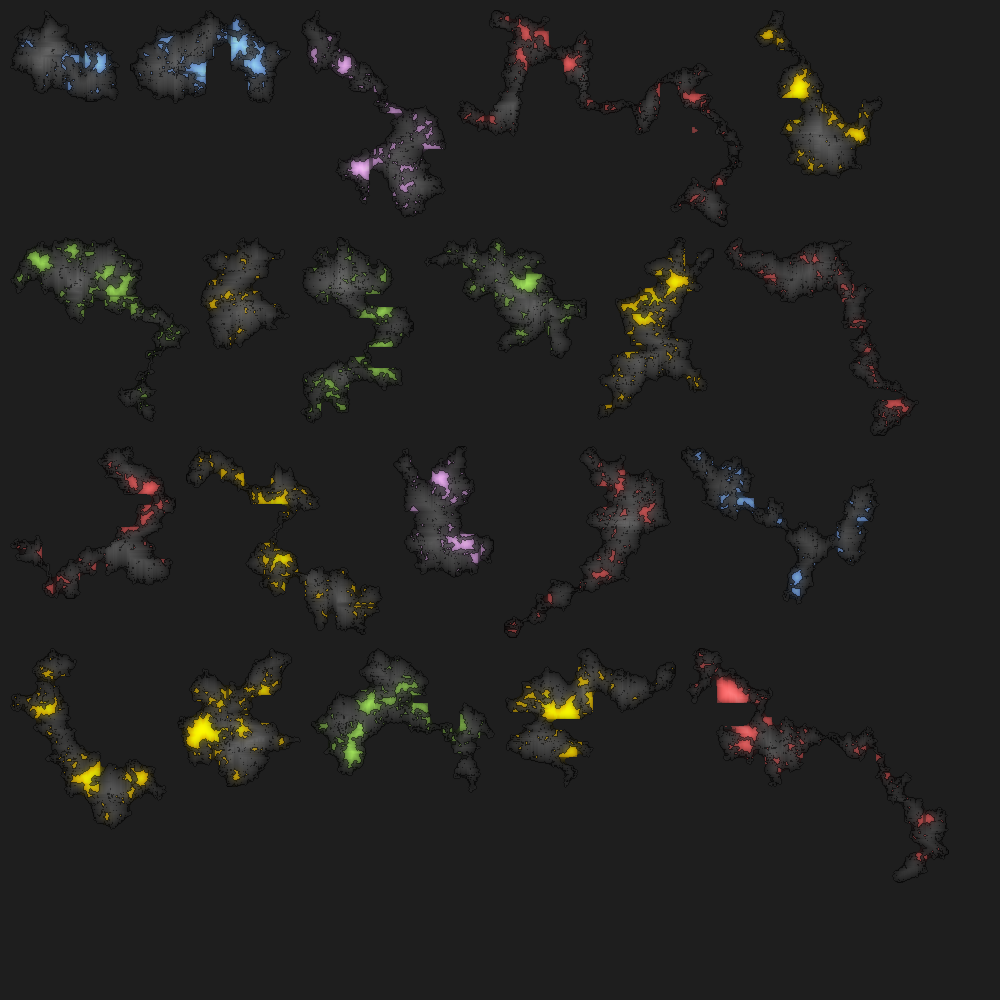
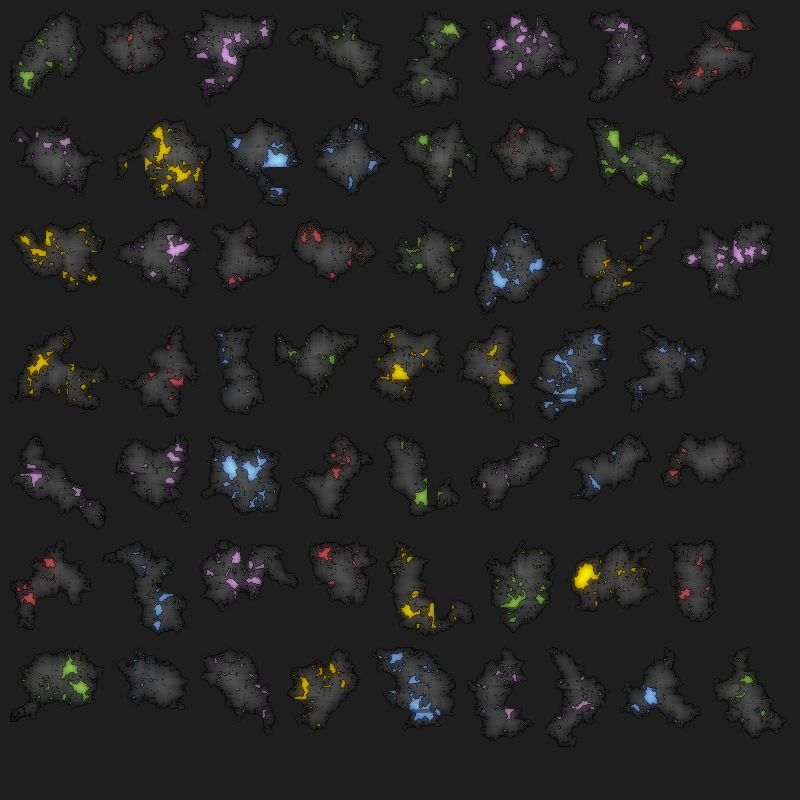
Lots of refinements.

diff --git a/src/ajb/utils/ImageUtils.java b/src/ajb/utils/ImageUtils.java
@@ -19,14 +19,14 @@ import ajb.random.RandomColor;
 
 public class ImageUtils {
 
-	public static BufferedImage outputToImage(Pixel[][] grid, Color borderColor, Color primaryColor, Color secondaryColor) {
+	public static BufferedImage outputToImage(Pixel[][] grid, Color primaryColor, Color secondaryColor) {
 		
 		if (secondaryColor == null) {
 			secondaryColor = Color.decode(ColorUtils.getRandomColour());
 		}
 		
-		BufferedImage baseImg = createImage(grid, borderColor, primaryColor, secondaryColor);
-		BufferedImage layer1Img = createImage(grid, borderColor, primaryColor, secondaryColor);
+		BufferedImage baseImg = createImage(grid, primaryColor, secondaryColor);
+		BufferedImage layer1Img = createImage(grid, primaryColor, secondaryColor);
 		
 		GaussianFilter filter = new GaussianFilter();
 		filter.setRadius(12f);
@@ -40,7 +40,7 @@ public class ImageUtils {
 		return result;
 	}
 	
-	public static BufferedImage createImage(Pixel[][] grid, Color borderColor, Color primaryColor, Color secondaryColor) {
+	public static BufferedImage createImage(Pixel[][] grid, Color primaryColor, Color secondaryColor) {
 
 		GraphicsConfiguration gc = GraphicsEnvironment.getLocalGraphicsEnvironment().getDefaultScreenDevice().getDefaultConfiguration();
 
@@ -56,18 +56,13 @@ public class ImageUtils {
 			for (int c = 0; c < grid[0].length; c++) {
 
 				if (grid[r][c].value == Pixel.BORDER) {
-
-					if (borderColor == null) {
-						gr.setColor(Color.BLACK);
-					} else {
-						gr.setColor(borderColor);
-					}
-
+					
+					gr.setColor(Color.BLACK);
 					gr.fillRect(c * scaleFactor, r * scaleFactor, scaleFactor, scaleFactor);
 
 				} else if (grid[r][c].value == Pixel.FILLED) {
 
-					gr.setColor(ColorUtils.lighter(primaryColor, grid[r][c].depth * 0.05 > 6 ? 6 : grid[r][c].depth * 0.05));
+					gr.setColor(ColorUtils.lighter(primaryColor, grid[r][c].depth * 0.05 > 3 ? 3 : grid[r][c].depth * 0.05));
 					gr.fillRect(c * scaleFactor, r * scaleFactor, scaleFactor, scaleFactor);
 
 				} else if (grid[r][c].value == Pixel.SECONDARY) {
@@ -83,7 +78,7 @@ public class ImageUtils {
 		return img;
 	}
 
-	public static BufferedImage outputAllToImage(List<Pixel[][]> grids, int width, int height, Color borderColor, Color primaryColor, Color secondaryColor) {
+	public static BufferedImage outputAllToImage(List<Pixel[][]> grids, int width, int height, Color primaryColor, Color secondaryColor) {
 
 		GraphicsConfiguration gc = GraphicsEnvironment.getLocalGraphicsEnvironment().getDefaultScreenDevice().getDefaultConfiguration();
 
@@ -103,7 +98,7 @@ public class ImageUtils {
 
 		for (Pixel[][] grid : grids) {
 
-			BufferedImage vesselImg = outputToImage(grid, borderColor, primaryColor, secondaryColor);
+			BufferedImage vesselImg = outputToImage(grid, primaryColor, secondaryColor);
 
 			if (x + (vesselImg.getWidth() + 10) > width) {
 				x = 10;

diff --git a/src/ajb/factory/StationGeneratorFactory.java b/src/ajb/factory/StationGeneratorFactory.java
@@ -8,13 +8,12 @@ import ajb.utils.PixelGridUtils;
 
 public class StationGeneratorFactory {
 
-	private final int ROWS = 600;
-	private final int COLS = 600;
+	private final int ROWS = 300;
+	private final int COLS = 300;
 
 	public Pixel[][] create() {
 
 		Pixel[][] grid = createBaseGrid();
-		addExtras(grid);
 
 		grid = PixelGridUtils.floor(grid);
 		grid = PixelGridUtils.mirrorCopyGridHorizontally(grid);
@@ -49,6 +48,10 @@ public class StationGeneratorFactory {
 			}
 		}
 
+		if (noOfSecondaryPixels == 0) {
+			return false;
+		}
+		
 		if (noOfSecondaryPixels > (noOfFilledPixels / 4)) {
 			result = false;
 		}	
@@ -63,8 +66,8 @@ public class StationGeneratorFactory {
 
 		Point point = new Point(ROWS -1, COLS - 1);
 
-		int steps = RandomInt.anyRandomIntRange(20, 30);
-		int subSteps = RandomInt.anyRandomIntRange(50, 80);
+		int steps = RandomInt.anyRandomIntRange(5, 20);
+		int subSteps = RandomInt.anyRandomIntRange(5, 50);
 
 		for (int i = 0; i < steps; i++) {
 
@@ -88,20 +91,6 @@ public class StationGeneratorFactory {
 		}
 
 		return grid;
-	}
-
-	private void addExtras(Pixel[][] grid) {
-
-		int steps = RandomInt.anyRandomIntRange(20, 20);
-		int subSteps = RandomInt.anyRandomIntRange(50, 50);
-
-		for (int i = 0; i < steps; i++) {
-			Point point = new Point(ROWS -1, COLS - 1);
-
-			for (int y = 0; y < subSteps; y++) {
-				point = processPoint(point, grid);
-			}
-		}
 	}
 
 	private Point processPoint(Point point, Pixel[][] grid) {

diff --git a/src/ajb/factory/VesselGeneratorFactory.java b/src/ajb/factory/VesselGeneratorFactory.java
@@ -8,8 +8,8 @@ import ajb.utils.PixelGridUtils;
 
 public class VesselGeneratorFactory {
 
-	private final int ROWS = 600;
-	private final int COLS = 600;
+	private final int ROWS = 300;
+	private final int COLS = 300;
 
 	public Pixel[][] create() {
 
@@ -54,7 +54,11 @@ public class VesselGeneratorFactory {
 		
 		if (noOfSecondaryPixels > (noOfFilledPixels / 4)) {
 			result = false;
-		}	
+		}
+		
+		if (grid.length > 200 || grid[0].length > 80) {
+			result = false;
+		}		
 		
 		return result;
 	}
@@ -66,8 +70,8 @@ public class VesselGeneratorFactory {
 
 		Point point = new Point(ROWS / 2, COLS - 1);
 
-		int steps = RandomInt.anyRandomIntRange(5, 50);
-		int subSteps = RandomInt.anyRandomIntRange(5, 120);
+		int steps = RandomInt.anyRandomIntRange(5, 30);
+		int subSteps = RandomInt.anyRandomIntRange(5, 80);
 
 		for (int i = 0; i < steps; i++) {
 
@@ -99,7 +103,7 @@ public class VesselGeneratorFactory {
 	private void addExtras(Pixel[][] grid) {
 
 		int steps = RandomInt.anyRandomIntRange(0, 20);
-		int subSteps = RandomInt.anyRandomIntRange(5, 50);
+		int subSteps = RandomInt.anyRandomIntRange(5, 40);
 
 		for (int i = 0; i < steps; i++) {
 			Point point = PixelGridUtils.getRandomFilledPoint(grid);

diff --git a/src/ajb/factory/AsteroidGeneratorFactory.java b/src/ajb/factory/AsteroidGeneratorFactory.java
@@ -7,8 +7,8 @@ import ajb.utils.PixelGridUtils;
 
 public class AsteroidGeneratorFactory {
 
-	private final int ROWS = 600;
-	private final int COLS = 600;
+	private final int ROWS = 300;
+	private final int COLS = 300;
 
 	public Pixel[][] create() {
 
@@ -49,7 +49,11 @@ public class AsteroidGeneratorFactory {
 		
 		if (noOfSecondaryPixels > (noOfFilledPixels / 4)) {
 			result = false;
-		}	
+		}
+		
+		if (grid.length > 100 || grid[0].length > 100) {
+			result = false;
+		}
 		
 		return result;
 	}
@@ -61,7 +65,7 @@ public class AsteroidGeneratorFactory {
 
 		Point point = new Point(ROWS / 2, COLS / 2);
 
-		int steps = 200;
+		int steps = 100;
 		int subSteps = 100;
 
 		for (int i = 0; i < steps; i++) {

diff --git a/examples/ajb/examples/CreateImageFullOfAsteroids.java b/examples/ajb/examples/CreateImageFullOfAsteroids.java
@@ -20,7 +20,7 @@ public class CreateImageFullOfAsteroids {
 		List<Pixel[][]> grids = new ArrayList<Pixel[][]>();
 
 		// create X vessels and add to our list
-		for (int i = 0; i < 30; i++) {
+		for (int i = 0; i < 60; i++) {
 
 			Pixel[][] grid = factory.create();
 
@@ -31,7 +31,7 @@ public class CreateImageFullOfAsteroids {
 		Color primaryColor = Color.decode("#2A2A2A");
 
 		// create image
-		BufferedImage img = ImageUtils.outputAllToImage(grids, 1000, 1000, null, primaryColor, null);
+		BufferedImage img = ImageUtils.outputAllToImage(grids, 800, 800, primaryColor, null);
 
 		// save image
 		// replace with the path of wherever you want the image to go - if left

diff --git a/examples/ajb/examples/CreateImageFullOfStations.java b/examples/ajb/examples/CreateImageFullOfStations.java
@@ -20,7 +20,7 @@ public class CreateImageFullOfStations {
 		List<Pixel[][]> grids = new ArrayList<Pixel[][]>();
 
 		// create X stations and add to our list
-		for (int i = 0; i < 15; i++) {
+		for (int i = 0; i < 70; i++) {
 
 			Pixel[][] grid = factory.create();
 
@@ -31,7 +31,7 @@ public class CreateImageFullOfStations {
 		Color primaryColor = Color.decode("#2A2A2A");
 
 		// create image
-		BufferedImage img = ImageUtils.outputAllToImage(grids, 1000, 1000, null, primaryColor, null);
+		BufferedImage img = ImageUtils.outputAllToImage(grids, 800, 800, primaryColor, null);
 
 		// save image
 		// replace with the path of wherever you want the image to go - if left

diff --git a/examples/ajb/examples/CreateImageFullOfVessels.java b/examples/ajb/examples/CreateImageFullOfVessels.java
@@ -20,7 +20,7 @@ public class CreateImageFullOfVessels {
 		List<Pixel[][]> grids = new ArrayList<Pixel[][]>();
 
 		// create X vessels and add to our list
-		for (int i = 0; i < 100; i++) {
+		for (int i = 0; i < 120; i++) {
 
 			Pixel[][] grid = factory.create();
 
@@ -31,7 +31,7 @@ public class CreateImageFullOfVessels {
 		Color primaryColor = Color.decode("#2A2A2A");
 
 		// create image
-		BufferedImage img = ImageUtils.outputAllToImage(grids, 1000, 1000, null, primaryColor, null);
+		BufferedImage img = ImageUtils.outputAllToImage(grids, 800, 800, primaryColor, null);
 
 		// save image
 		// replace with the path of wherever you want the image to go - if left
